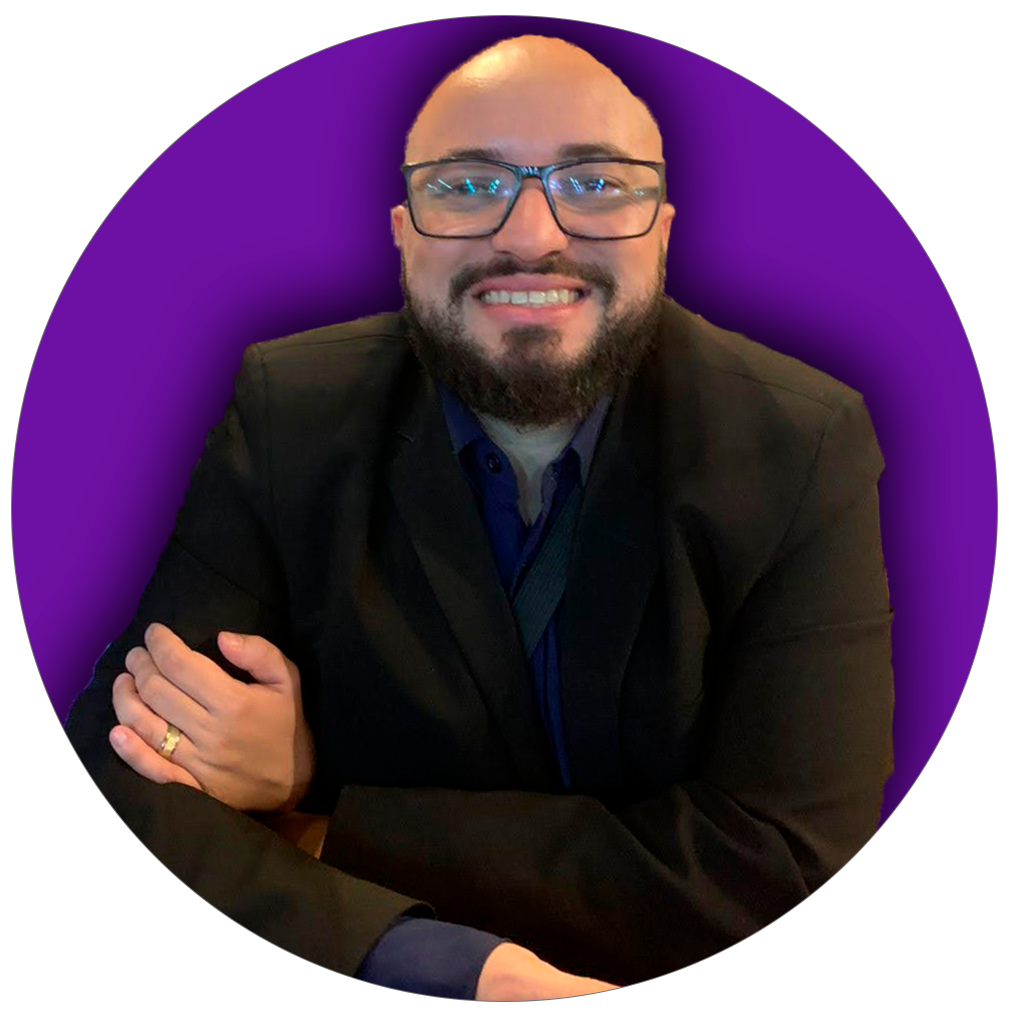
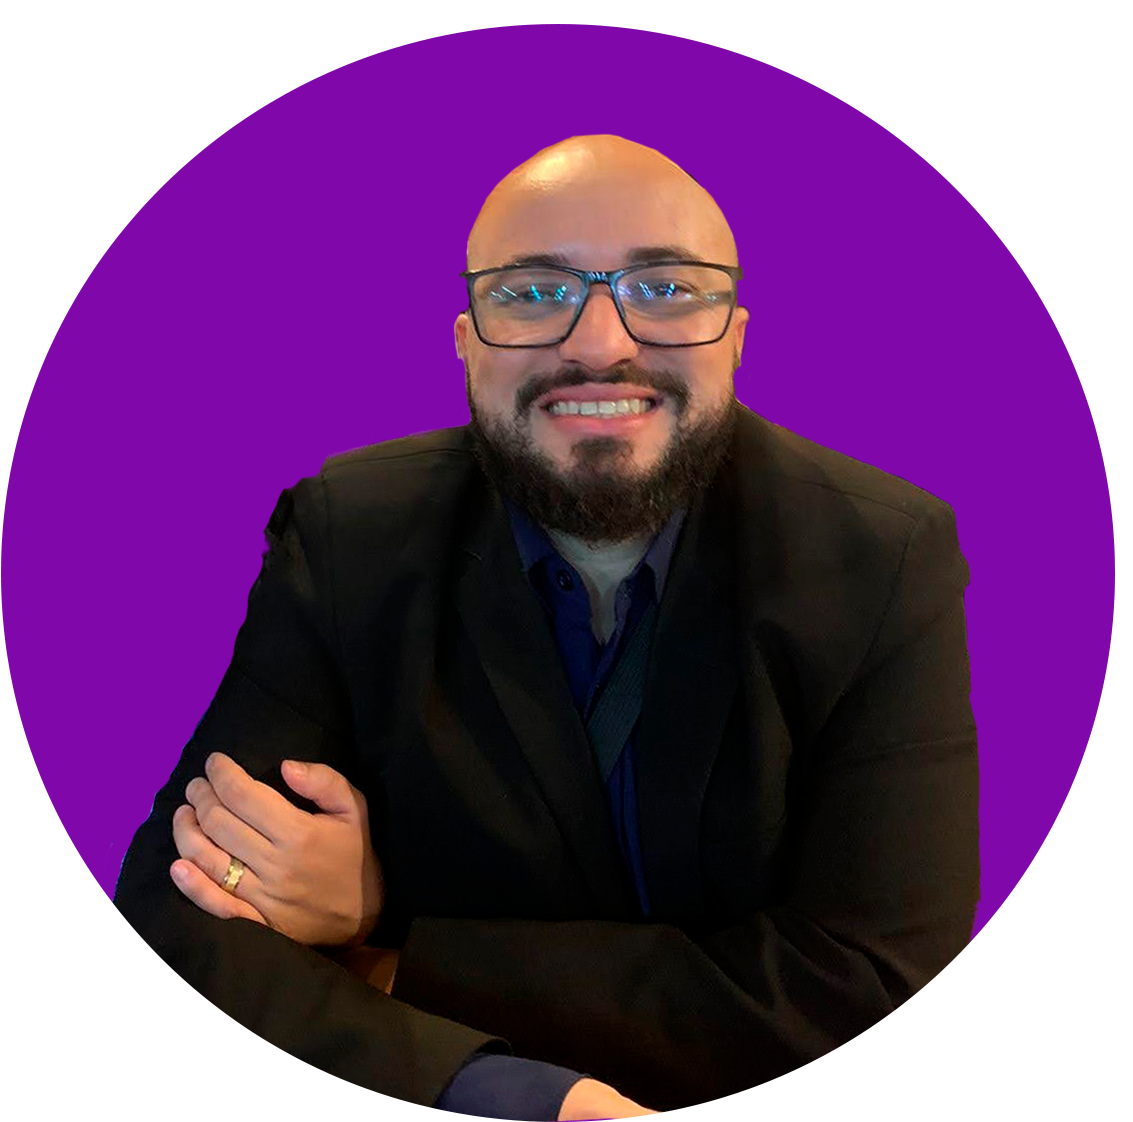
Atualizado foto inicial e tamanho da section protifolios

diff --git a/index.html b/index.html
@@ -183,7 +183,7 @@
                 <h2 class="titulo">MEU <span>PORTIFÓLIO</span></h2>
                 <div class="flex">
                     <div class="img-port" style="background-image: url('./src/img/site01.png');">
-                        <a href="https://s-a-m-i-o.github.io/EstidioAmandaSouza/" target="_blank">
+                        <a href="https://studioamandasouza.netlify.app//" target="_blank">
                             <div class="overlay">Projeto 1</div>
                         </a>
                     </div>

diff --git a/src/css/estilos.css b/src/css/estilos.css
@@ -161,9 +161,14 @@
     box-shadow: 0 0 40px 10px rgba(137, 43, 226, 0.231);
 }
 
+.portifolio .interface {
+    max-width: 100%;
+}
+
 .portifolio .flex {
     justify-content: space-around;
     margin-top: 60px;
+    width: 100%;
 }
 
 .portifolio .img-port {
